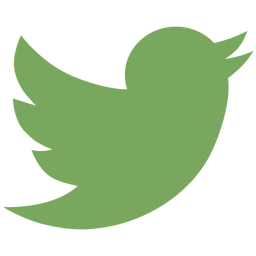
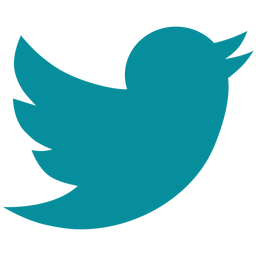
Adjust contact form

diff --git a/styles/landing.css b/styles/landing.css
@@ -135,14 +135,16 @@ fieldset {
 /*Contact*/
 .contact {
   background-color: #59c3c3;
-  /*background-color: #068D9D;*/
+}
+
+::-webkit-input-placeholder {
+   font-style: italic;
 }
 
 fieldset * {
   width: 30%;
   min-width: 15rem;
   font-family: inherit;
-  font-style: italic;
   border-radius: 2px;
   padding: 0.25rem 0.5rem;
   border: 2px solid transparent;
@@ -150,7 +152,7 @@ fieldset * {
 }
 
 fieldset *:focus {
-  border: 2px solid #c78283;
+  border: 2px solid #068d9d;
   transition-duration: 0.3s;
 }
 
@@ -212,7 +214,7 @@ footer a img {
   font-weight: bold;
   display: inline-block;
   text-decoration: none;
-  color: #79A75D;
+  color: #068d9d;
 }
 .site-footer div {
   display: inline-block;
@@ -226,8 +228,8 @@ footer a img {
 /*Media queries*/
 
 @media
-only screen
-and (max-width: 768px) {
+only screen and (max-width: 768px),
+only screen and (max-width: 1200px) and (-webkit-min-device-pixel-ratio: 1.5){
   h1 {
     font-size: 4em;
   }

diff --git a/index.html b/index.html
@@ -78,7 +78,7 @@
       <a name="contact"></a>
       <h2>contact</h2>
       <hr>
-      <form>
+      <form action="MAILTO:trevor.a.archer@gmail.com" method="post" enctype="text/plain">
         <fieldset>
           <input type="text" name="name" placeholder="name" required>
           <br>
